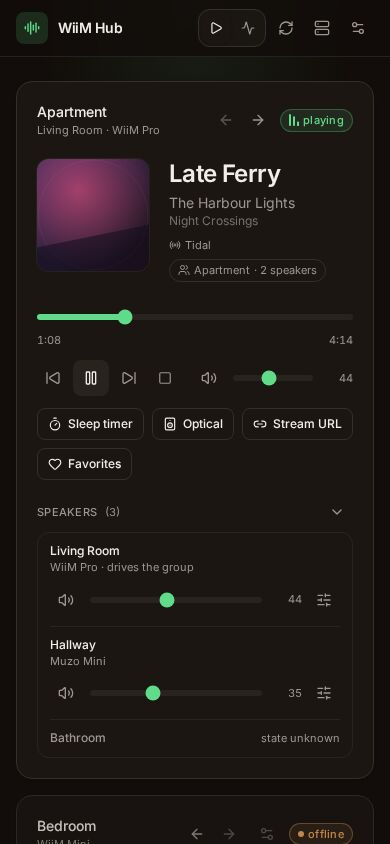
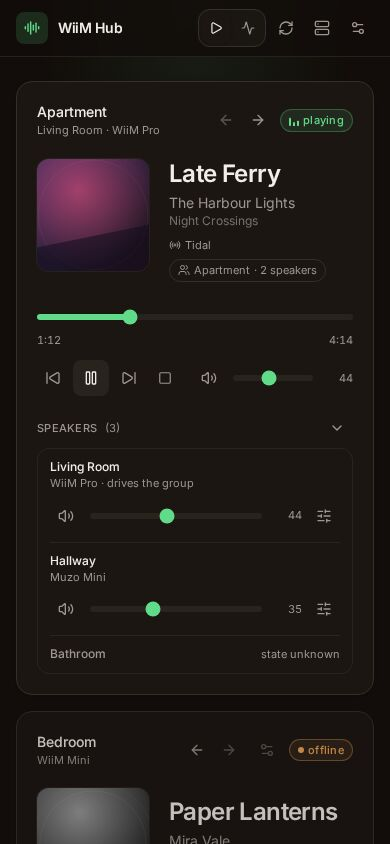
docs: refresh the captures of the group card and the speaker sheet
The three images were taken before the tools of a speaker moved into its sheet: the
group card still showed the sleep timer, the output, the stream URL and the presets,
and the sheet showed none of them. They now come from the 0.9.34 demo, English and
dark, at the sizes the published files carry.

The prose around them follows: the now playing view lists the tools on the speaker's
sheet, and the demo page says the row of a speaker opens its own controls.

diff --git a/docs/features.md b/docs/features.md
@@ -31,18 +31,18 @@ and the behaviours measured on a real player are recorded in the
 
 ## Control
 
-| Feature                                                       | What you get                                                                                                                  |
-| ------------------------------------------------------------- | ----------------------------------------------------------------------------------------------------------------------------- |
-| [Playback](/reference/http-api#intents)                       | Play, pause, toggle, stop, next, previous, seek in seconds, volume and mute                                                   |
-| [Sources and sleep](/reference/http-api#intents)              | Switch an input from the speaker's own settings, set a sleep timer the player counts down itself                              |
-| [Audio route](/reference/http-api#intents)                    | Choose the output the player should drive, when it publishes the list                                                         |
-| [A stream URL](/reference/http-api#intents)                   | Hand the player a URL it fetches itself, so the stream outlives the hub                                                       |
-| [Favourites](/feature-research#_5-4-presets)                  | Everything the speaker saved, radio or service list, one tap from the controls row; the player resolves a service slot itself |
-| [Equalizer](/feature-research#_5-5-eq-and-acoustic)           | On or off, presets, bands, RoomFit, and the quality the device reports                                                        |
-| [Device settings](/reference/http-api)                        | Name, LED, front buttons, balance, maximum volume and fade                                                                    |
-| [The source of a speaker](/guide/devices#multiroom-read-only) | The input picker sits in the settings of the speaker it switches, group member or solo player                                 |
-| [One queue per speaker](/how-it-works#the-write-path)         | Writes to a device are serialised, so two gestures cannot race each other                                                     |
-| [Intents, never raw commands](/reference/http-api#intents)    | The body is an intent the hub maps itself, so no caller can send an arbitrary firmware command                                |
+| Feature                                                       | What you get                                                                                                                            |
+| ------------------------------------------------------------- | --------------------------------------------------------------------------------------------------------------------------------------- |
+| [Playback](/reference/http-api#intents)                       | Play, pause, toggle, stop, next, previous, seek in seconds, volume and mute                                                             |
+| [Sources and sleep](/reference/http-api#intents)              | Switch an input from the speaker's own settings, set a sleep timer the player counts down itself                                        |
+| [Audio route](/reference/http-api#intents)                    | Choose the output the player should drive, when it publishes the list                                                                   |
+| [A stream URL](/reference/http-api#intents)                   | Hand the player a URL it fetches itself, so the stream outlives the hub                                                                 |
+| [Favourites](/feature-research#_5-4-presets)                  | Everything the speaker saved, radio or service list, one tap from the speaker's controls row; the player resolves a service slot itself |
+| [Equalizer](/feature-research#_5-5-eq-and-acoustic)           | On or off, presets, bands, RoomFit, and the quality the device reports                                                                  |
+| [Device settings](/reference/http-api)                        | Name, LED, front buttons, balance, maximum volume and fade                                                                              |
+| [The source of a speaker](/guide/devices#multiroom-read-only) | The input picker sits in the settings of the speaker it switches, group member or solo player                                           |
+| [One queue per speaker](/how-it-works#the-write-path)         | Writes to a device are serialised, so two gestures cannot race each other                                                               |
+| [Intents, never raw commands](/reference/http-api#intents)    | The body is an intent the hub maps itself, so no caller can send an arbitrary firmware command                                          |
 
 ## Diagnostics
 

diff --git a/README.md b/README.md
@@ -24,12 +24,13 @@ the normal case.
 
 ## Two views, one dataset
 
-A **now playing** view for everyday use: art, track, progress, volume, presets, sleep timer, audio
-route, and a stream URL the speaker fetches itself. A running group is one card, with its speakers
-as rows, each carrying its own volume. A **diagnostic** view for support: raw fields, signal
-history, event log, and findings that quote the number they come from. A card folds to its header
-in the diagnostic view, and the arrows in a now playing header set an order the page keeps per
-browser, so the speaker you care about stays first.
+A **now playing** view for everyday use: art, track, progress and volume, and on each speaker's own
+sheet its presets, sleep timer, audio route, and a stream URL the speaker fetches itself. A running
+group is one card, with its speakers as rows, each carrying its own volume and opening its sheet.
+A **diagnostic** view for support: raw fields, signal history, event log, and findings that quote
+the number they come from. A card folds to its header in the diagnostic view, and the arrows in a
+now playing header set an order the page keeps per browser, so the speaker you care about stays
+first.
 
 |                                       |                                               |
 | ------------------------------------- | --------------------------------------------- |

diff --git a/docs/index.md b/docs/index.md
@@ -52,10 +52,10 @@ behaviour was measured on a real player it is recorded in the
 
 ## What it looks like
 
-Two readings of the same data: the sheet of one speaker, with its volume, its equalizer and its
-settings, and the diagnostic view, which turns the device's own counters into short facts. Both fit
-a phone, where the cards stack one per screen and nothing needs a zoom. A running group is one card
-there too, with its speakers as rows.
+Two readings of the same data: the sheet of one speaker, with its volume, its own controls, its
+equalizer and its settings, and the diagnostic view, which turns the device's own counters into
+short facts. Both fit a phone, where the cards stack one per screen and nothing needs a zoom. A
+running group is one card there too, with its speakers as rows.
 
 |                                                                              |                                        |
 | ---------------------------------------------------------------------------- | -------------------------------------- |

diff --git a/docs/guide/demo.md b/docs/guide/demo.md
@@ -25,9 +25,9 @@ state. All three report a deterministic signal history, so the sparkline has a s
 noise, and the offline card carries the findings a real one would: a device that does not answer,
 and a group that is saved without running.
 
-Living Room drives a group, so its equalizer and its settings open from its own row, one gesture
-under the room's name; the card above keeps the player. Bedroom drives nothing and keeps the sound
-card under its player, which the capture below shows on the right.
+Living Room drives a group, so its own controls, its equalizer and its settings open from its row,
+one gesture under the room's name; the card above keeps the player. Bedroom drives nothing and
+keeps its controls and the sound card under its player, which the capture below shows on the right.
 
 What is **not** faked is the path a write takes. The demo goes through the same action parser and
 the same command builder as the hub: the volume ceiling, the available inputs and outputs and the
